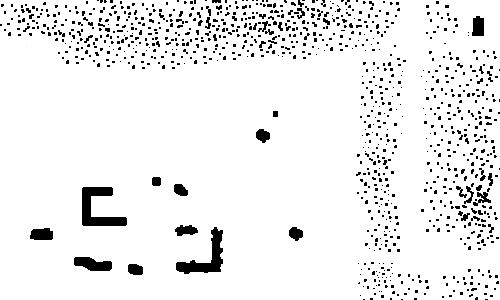
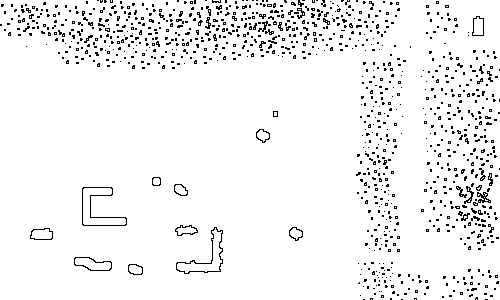
fix borders of temeslike map

diff --git a/unity_maps/temeslike/find_edges.py b/unity_maps/temeslike/find_edges.py
@@ -1,0 +1,40 @@
+import cv2
+import numpy as np
+
+# Load image with alpha channel
+img = cv2.imread("obstacles_old.png", cv2.IMREAD_UNCHANGED)
+
+# Extract obstacle mask (black pixels with alpha > 0)
+# You can adapt this depending on your format
+if img.shape[2] == 4:
+    alpha = img[:, :, 3]
+else:
+    alpha = np.ones(img.shape[:2], dtype=np.uint8) * 255
+
+# Consider black where (R,G,B) all near 0 and alpha > 0
+obstacle_mask = (np.all(img[:, :, :3] < 10, axis=2)) & (alpha > 0)
+obstacle_mask = obstacle_mask.astype(np.uint8) * 255
+
+# Morphological edge extraction
+kernel = np.ones((3, 3), np.uint8)
+eroded = cv2.erode(obstacle_mask, kernel, iterations=1)
+edges = obstacle_mask - eroded
+
+# Optional: clean up noise
+# edges = cv2.medianBlur(edges, 3)
+
+# Save or display result
+# Create RGBA output: black where edges, transparent elsewhere
+output = np.zeros((edges.shape[0], edges.shape[1], 4), dtype=np.uint8)
+output[:, :, 0:3] = 0  # black color
+output[:, :, 3] = edges  # alpha = edges (255 on edges, 0 elsewhere)
+
+# Save the result as PNG (keeps transparency)
+cv2.imwrite("edges.png", output)
+# cv2.imwrite("edges.png", edges)
+cv2.imshow("Obstacle Edges", edges)
+while True:
+    if cv2.waitKey(1) & 0xFF == 27:  # Press 'ESC' to exit
+        break
+# cv2.waitKey(0)
+# cv2.destroyAllWindows()

diff --git a/ratsim/test_msnav.py b/ratsim/test_msnav.py
@@ -115,18 +115,29 @@ if __name__ == "__main__":
     # start_rot = -np.pi/2
 
     mapname = "temeslike"
+    start_rot = -np.pi/2
     # Start field
     # start_x = 400
     # start_z = 300
 
+    # start_x = 300
+    # start_z = 400
+
+    start_x = 700
+    start_z = 400
+
+    # Forest road
+    # start_x = 850
+    # start_z = 400
+
     # Start house
-    start_x = 200
-    start_z = 250
+    # start_x = 200
+    # start_z = 250
 
     # Start forest
-    # start_x = 900
-    # start_z = 100
-    start_rot = -np.pi/2
+    # start_x = 850
+    # start_z = 80
+    # start_rot = -np.pi/2
 
     # mapname = "bigforest"
     # start_x = 500
